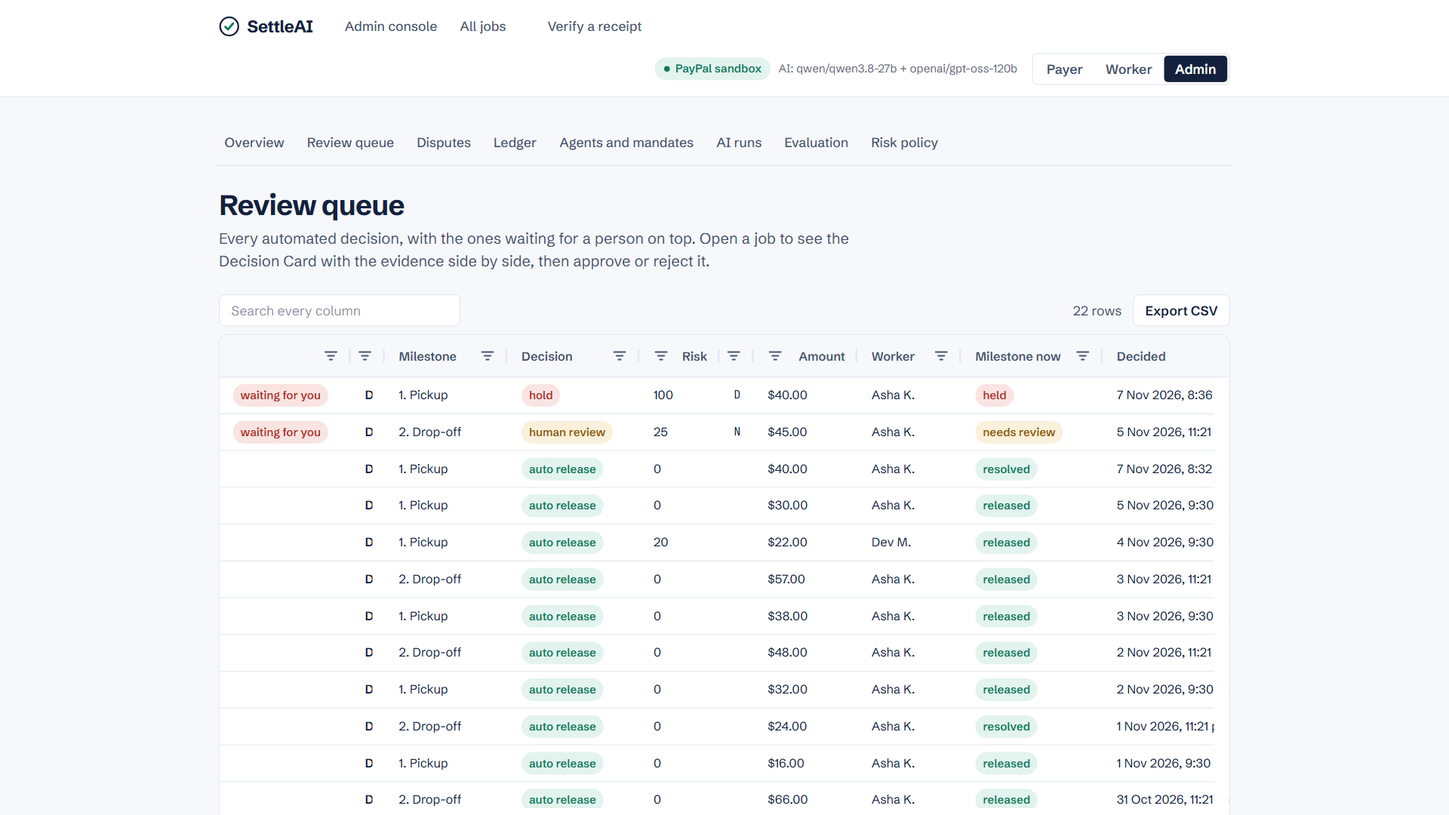
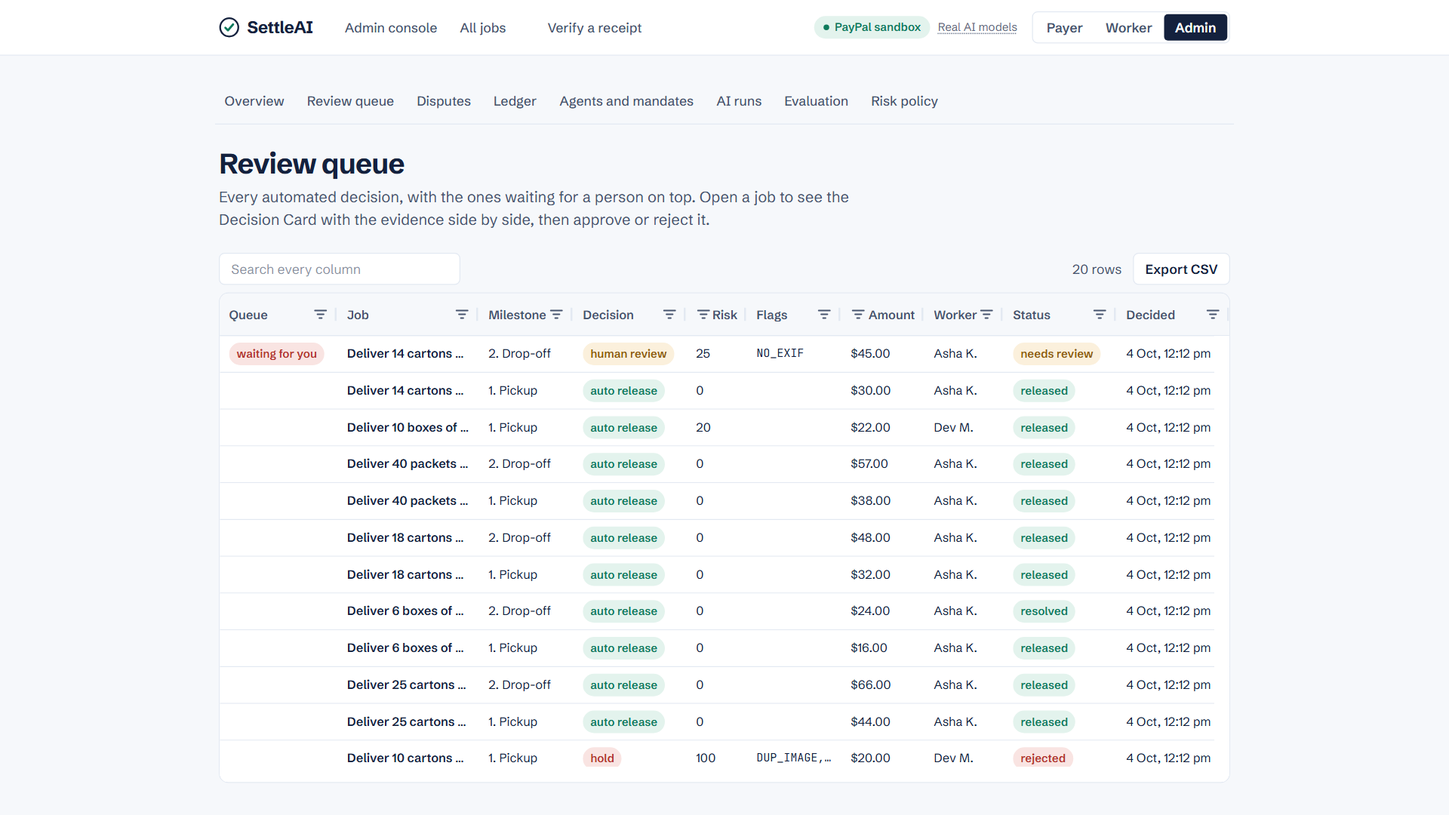
Judge-review fixes: AG Grid column widths, 10-minute demo challenge window, plain-English liability card, PayPal hold wording, model tooltip; Devpost image fix, sourced impact, write-tools rationale; README hero and single evidence table; screenshots 2 and 5 retaken

diff --git a/src/components/dispute-panel.tsx b/src/components/dispute-panel.tsx
@@ -1,7 +1,7 @@
 "use client";
 
 import { useRouter } from "next/navigation";
-import { useState } from "react";
+import { Fragment, useState } from "react";
 import type { DisputeProposal, FaultClass } from "@/core/contracts";
 import { formatMinor, parseMajor } from "@/core/money";
 import { api } from "@/lib/api";
@@ -31,6 +31,30 @@ const STATUS: Record<string, { label: string; tone: Tone }> = {
   ADMIN_RESOLVED: { label: "Decided by admin", tone: "good" },
   EXECUTED: { label: "Settled", tone: "good" },
 };
+
+/** Who carries the loss, in plain words. */
+const BEARER: Record<string, string> = {
+  worker: "borne by the worker",
+  payer: "borne by the payer",
+  shared: "shared by both sides",
+  platform: "borne by the platform",
+  agent_principal: "borne by the agent's principal",
+};
+
+const CONDITION_WORDS: Record<string, string> = {
+  "verification.pass": "the proof checks pass",
+  "risk.not_hold": "risk policy does not hold it",
+  "mandate.active": "the mandate is still active",
+};
+
+/** Plain-English version of a signed settlement clause; the raw clause stays under Details. */
+function plainClause(text: string): string {
+  const m = /^Payment Mandate, milestone (\d+): (\S+) settles only when (.+) hold, under acceptance criteria/.exec(text);
+  if (!m) return text;
+  const conds = m[3].split(", ").map((c) => CONDITION_WORDS[c] ?? c);
+  const list = conds.length > 1 ? `${conds.slice(0, -1).join(", ")} and ${conds[conds.length - 1]}` : conds[0];
+  return `Milestone ${m[1]} pays ${m[2]} only if ${list}, judged against the signed acceptance criteria.`;
+}
 
 const FAULT: Record<FaultClass, string> = {
   WORKER_NONPERFORMANCE: "Worker did not perform",
@@ -204,18 +228,33 @@ export function DisputePanel({ d, viewer }: { d: DisputeProps; viewer: "payer" |
           <section aria-label="Liability finding" className="mt-4 rounded-md border-l-4 border-signal bg-paper px-4 py-3">
             <p className="text-xs font-semibold uppercase tracking-wide text-ink-soft">Liability finding</p>
             <p className="mt-1 text-lg font-semibold">
-              {FAULT[d.proposal.liability.faultClass]} <span className="text-base font-normal text-ink-soft">(borne by {d.proposal.liability.bearer.replace("_", " ")})</span>
+              {FAULT[d.proposal.liability.faultClass]} <span className="text-base font-normal text-ink-soft">({BEARER[d.proposal.liability.bearer] ?? d.proposal.liability.bearer})</span>
             </p>
             {d.proposal.liability.basis
               .filter((b) => b.startsWith("mandate:"))
               .map((b) => (
                 <p key={b} className="mt-2 text-sm leading-relaxed">
                   <span className="font-semibold">Cites the mandate: </span>
-                  {d.reportClauses.find((c) => c.ref === b)?.text}
+                  {plainClause(d.reportClauses.find((c) => c.ref === b)?.text ?? "")}
                 </p>
               ))}
           </section>
-          <dl className="mt-3 grid grid-cols-[auto_1fr] gap-x-3 gap-y-1 text-sm">
+          <p className="mt-3 text-sm">
+            <span className="text-ink-soft">Confidence </span>
+            <span className="num">{Math.round(d.proposal.confidence * 100)}%</span>
+            {d.reportSummary ? <span className="text-ink-soft"> · {d.reportSummary}</span> : null}
+          </p>
+          <details className="mt-2 text-sm">
+            <summary className="cursor-pointer text-ink-soft hover:text-ink">Details</summary>
+          <dl className="mt-2 grid grid-cols-[auto_1fr] gap-x-3 gap-y-1 text-sm">
+            {d.proposal.liability.basis
+              .filter((b) => b.startsWith("mandate:"))
+              .map((b) => (
+                <Fragment key={`t-${b}`}>
+                  <dt className="text-ink-soft">Signed clause</dt>
+                  <dd className="text-xs">{d.reportClauses.find((c) => c.ref === b)?.text}</dd>
+                </Fragment>
+              ))}
             <dt className="text-ink-soft">Based on</dt>
             <dd>
               {d.proposal.liability.basis.filter((b) => !b.startsWith("mandate:")).map((b) => (
@@ -236,15 +275,8 @@ export function DisputePanel({ d, viewer }: { d: DisputeProps; viewer: "payer" |
                 </dd>
               </>
             ) : null}
-            {d.reportSummary ? (
-              <>
-                <dt className="text-ink-soft">Mandate check</dt>
-                <dd>{d.reportSummary}</dd>
-              </>
-            ) : null}
-            <dt className="text-ink-soft">Confidence</dt>
-            <dd className="num">{Math.round(d.proposal.confidence * 100)}%</dd>
           </dl>
+          </details>
           {d.proposal.findings.contestedFacts.length ? <p className="mt-2 text-xs text-ink-soft">Contested: {d.proposal.findings.contestedFacts.join("; ")}</p> : null}
           {d.proposal.reasonsIfHuman.length ? <p className="mt-2 text-xs text-deny">Needs a person: {d.proposal.reasonsIfHuman.join("; ")}</p> : null}
           <p className="mt-2 text-xs text-ink-faint">

diff --git a/src/components/data-grid.tsx b/src/components/data-grid.tsx
@@ -16,6 +16,8 @@ export interface ColumnSpec {
   kind?: ColumnKind;
   width?: number;
   flex?: number;
+  /** Floor for flex columns so they never collapse when fixed columns take the space. */
+  minWidth?: number;
   /** status: value -> tone; link: the row field holding the href (default "link") */
   tones?: Record<string, "good" | "warn" | "bad" | "info" | "neutral">;
   hrefField?: string;
@@ -43,6 +45,7 @@ const theme = themeQuartz.withParams({
   rowHoverColor: "#f6f8fb",
   wrapperBorderRadius: 10,
   spacing: 7,
+  cellHorizontalPadding: 10,
 });
 
 const MODULES = [AllCommunityModule];
@@ -52,8 +55,16 @@ function fmtDate(v: unknown): string {
   return new Date(String(v)).toLocaleString("en-IN", { dateStyle: "medium", timeStyle: "short", timeZone: "Asia/Kolkata" });
 }
 
+/** Compact cell text ("7 Nov, 8:36 pm"); the full date with the year is in the tooltip. */
+function fmtDateShort(v: unknown): string {
+  if (!v) return "";
+  return new Date(String(v)).toLocaleString("en-IN", { day: "numeric", month: "short", hour: "numeric", minute: "2-digit", timeZone: "Asia/Kolkata" });
+}
+
 function toColDef(c: ColumnSpec): ColDef {
-  const base: ColDef = { field: c.field, headerName: c.header, width: c.width, flex: c.flex ?? (c.width ? undefined : 1), hide: c.hide, sortable: true, filter: true, resizable: true };
+  const flex = c.flex ?? (c.width ? undefined : 1);
+  const minWidth = c.minWidth ?? (flex ? 120 : undefined);
+  const base: ColDef = { field: c.field, headerName: c.header, headerTooltip: c.header, width: c.width, flex, minWidth, hide: c.hide, sortable: true, filter: true, resizable: true };
   switch (c.kind) {
     case "money":
       return { ...base, type: "rightAligned", filter: "agNumberColumnFilter", valueFormatter: (p) => (p.value === null || p.value === undefined ? "" : formatMinor(Number(p.value))), cellClass: "num" };
@@ -62,7 +73,7 @@ function toColDef(c: ColumnSpec): ColDef {
     case "percent":
       return { ...base, type: "rightAligned", filter: "agNumberColumnFilter", valueFormatter: (p) => (p.value === null || p.value === undefined ? "" : `${p.value}%`), cellClass: "num" };
     case "datetime":
-      return { ...base, filter: "agDateColumnFilter", valueFormatter: (p) => fmtDate(p.value), sort: undefined };
+      return { ...base, filter: "agDateColumnFilter", valueFormatter: (p) => fmtDateShort(p.value), tooltipValueGetter: (p) => fmtDate(p.value), sort: undefined };
     case "code":
       return { ...base, cellClass: "font-mono text-xs" };
     case "status":

diff --git a/src/app/admin/risk/page.tsx b/src/app/admin/risk/page.tsx
@@ -6,16 +6,16 @@ export const metadata: Metadata = { title: "Review queue" };
 export const dynamic = "force-dynamic";
 
 const COLUMNS: ColumnSpec[] = [
-  { field: "waiting", header: "", kind: "status", width: 140, tones: { "Waiting for you": "bad" } },
-  { field: "job", header: "Job", kind: "link", flex: 2 },
-  { field: "milestone", header: "Milestone", width: 130 },
-  { field: "decision", header: "Decision", kind: "status", width: 140, tones: { AUTO_RELEASE: "good", HUMAN_REVIEW: "warn", HOLD: "bad" } },
-  { field: "score", header: "Risk", kind: "number", width: 85 },
-  { field: "flags", header: "Flags", kind: "code", flex: 1 },
-  { field: "amountMinor", header: "Amount", kind: "money", width: 110 },
-  { field: "worker", header: "Worker", width: 110 },
-  { field: "status", header: "Milestone now", kind: "status", width: 150, tones: { RELEASED: "good", RESOLVED: "good", NEEDS_REVIEW: "warn", HELD: "bad", REJECTED: "bad" } },
-  { field: "at", header: "Decided", kind: "datetime", width: 170 },
+  { field: "waiting", header: "Queue", kind: "status", width: 125, tones: { "Waiting for you": "bad" } },
+  { field: "job", header: "Job", kind: "link", flex: 2, minWidth: 150 },
+  { field: "milestone", header: "Milestone", width: 100 },
+  { field: "decision", header: "Decision", kind: "status", width: 120, tones: { AUTO_RELEASE: "good", HUMAN_REVIEW: "warn", HOLD: "bad" } },
+  { field: "score", header: "Risk", kind: "number", width: 64 },
+  { field: "flags", header: "Flags", kind: "code", flex: 1, minWidth: 100 },
+  { field: "amountMinor", header: "Amount", kind: "money", width: 88 },
+  { field: "worker", header: "Worker", width: 84 },
+  { field: "status", header: "Status", kind: "status", width: 120, tones: { RELEASED: "good", RESOLVED: "good", NEEDS_REVIEW: "warn", HELD: "bad", REJECTED: "bad" } },
+  { field: "at", header: "Decided", kind: "datetime", width: 120 },
   { field: "policyVersion", header: "Policy", kind: "number", width: 85, hide: true },
 ];
 

diff --git a/src/app/page.tsx b/src/app/page.tsx
@@ -10,7 +10,7 @@ const SAMPLE_MANDATE =
 
 const STEPS = [
   { title: "You sign what the agent may buy", body: "Categories, caps, area and expiry, in one plain sentence signed by your key." },
-  { title: "PayPal holds the money", body: "The job is funded through PayPal Checkout and held in escrow before anyone starts." },
+  { title: "PayPal holds the money", body: "The job is funded through PayPal Checkout and held by PayPal for this job before anyone starts." },
   { title: "Proof is checked, not trusted", body: "Location, time and duplicate-photo checks run first; then an AI verifies each criterion." },
   { title: "PayPal pays, or nobody does", body: "Policy releases the payout, holds it for review, or blocks it. Every step is signed." },
 ];
@@ -18,7 +18,7 @@ const STEPS = [
 const MOMENTS = [
   { title: "An agent is stopped before money moves", how: "Payer, Agent mandates, Out of scope, Send as agent: denied with reason codes, nothing created." },
   { title: "A reused photo is caught", how: "Worker, on a funded job, Submit proof, Photo reused from another job: held for a person." },
-  { title: "A dispute names who is liable", how: "Payer, Dispute this milestone in the challenge window: a split and a finding that cites the mandate." },
+  { title: "A dispute names who is liable", how: "Worker, on a funded job, Submit proof, Photo at the right place. Then Payer, open that job, Dispute this milestone within 10 minutes: a split and a finding that cites the mandate." },
   { title: "A receipt anyone can check", how: "Open the showcase receipt or any job's receipt, Verify; change one byte and it fails." },
 ];
 

diff --git a/src/components/mode-badge.tsx b/src/components/mode-badge.tsx
@@ -26,12 +26,18 @@ export function ModeBadge() {
         <span className={`h-1.5 w-1.5 rounded-full ${live ? "bg-seal" : "bg-hold"}`} />
         {live ? `PayPal ${cfg.PAYPAL_ENV}` : "Mock PayPal"}
       </span>
-      <span
-        title="Model used by the AI agents"
-        className={cfg.llmProvider === "stub" ? "rounded-full bg-hold-wash px-2.5 py-1 font-semibold text-hold" : "hidden text-ink-faint sm:inline"}
-      >
-        {cfg.llmProvider === "stub" ? "Offline AI stub" : `AI: ${cfg.llmModel}${cfg.llmProvider === "groq" ? ` + ${cfg.LLM_TEXT_MODEL ?? GROQ_DEFAULT_TEXT_MODEL}` : ""}`}
-      </span>
+      {cfg.llmProvider === "stub" ? (
+        <span title="AI answers are canned fixtures" className="rounded-full bg-hold-wash px-2.5 py-1 font-semibold text-hold">
+          Offline AI stub
+        </span>
+      ) : (
+        <span
+          title={`Models used by the AI agents: ${cfg.llmModel}${cfg.llmProvider === "groq" ? ` + ${cfg.LLM_TEXT_MODEL ?? GROQ_DEFAULT_TEXT_MODEL}` : ""}`}
+          className="hidden cursor-help text-ink-faint underline decoration-dotted underline-offset-2 sm:inline"
+        >
+          Real AI models
+        </span>
+      )}
     </span>
   );
 }

diff --git a/src/components/milestone-actions.tsx b/src/components/milestone-actions.tsx
@@ -90,7 +90,7 @@ export function PausedChoice({ milestoneId }: { milestoneId: string }) {
   const { busy, error, run } = useAction();
   return (
     <div className="mt-3 rounded-md bg-deny-wash p-3 text-sm">
-      <p>The agent&apos;s mandate was revoked, so this payout stopped. The money is still in escrow. You decide:</p>
+      <p>The agent&apos;s mandate was revoked, so this payout stopped. The money is still held by PayPal for this job. You decide:</p>
       <div className="mt-2 flex flex-wrap gap-2">
         <Button disabled={busy} onClick={() => run(() => api(`/api/milestones/${milestoneId}/resume`, { method: "POST" }))}>
           I approve the work, pay it

diff --git a/src/core/services/disputes.ts b/src/core/services/disputes.ts
@@ -209,7 +209,7 @@ export class DisputeService {
         ? "Direct job created and funded by the payer in person; no agent mandate applies."
         : violations.length
           ? `Out-of-mandate actions found: ${violations.join(", ")}.`
-          : `Every agent action on this job passed the Mandate Guard (${checks.length} checks).`,
+          : `Every agent action on this job passed the Mandate Guard (${checks.length} ${checks.length === 1 ? "check" : "checks"}).`,
       clauses,
     };
     await this.db.insert(complianceReports).values({ id, disputeId, jobId, resultJson: report });

diff --git a/src/components/job-actions.tsx b/src/components/job-actions.tsx
@@ -110,7 +110,7 @@ export function FundPanel({
         <dt className="font-semibold">You pay now</dt>
         <dd className="num text-right font-semibold">{formatMinor(totalMinor + feeMinor)}</dd>
       </dl>
-      <p className="mt-3 text-sm text-ink-soft">PayPal holds this in escrow. The worker is paid per milestone only after proof is verified.</p>
+      <p className="mt-3 text-sm text-ink-soft">PayPal holds this for the job. The worker is paid per milestone only after proof is verified.</p>
 
       {!order ? (
         <Button onClick={start} disabled={busy} className="mt-4 w-full">

diff --git a/tests/e2e/j1-fund-and-accept.spec.ts b/tests/e2e/j1-fund-and-accept.spec.ts
@@ -41,7 +41,7 @@ test("payer scopes and funds a job; worker accepts it", async ({ page }) => {
   await page.getByRole("button", { name: "Pay $102.00" }).click();
 
   await expect(page.getByText("Funded, open to workers")).toBeVisible();
-  await expect(page.getByText("Held in escrow")).toBeVisible();
+  await expect(page.getByText("Held by PayPal for this job")).toBeVisible();
   await expect(page.getByText(/^PayPal capture .*confirmed by PayPal webhook/)).toBeVisible();
   await shot(page, "04-funded");
   const jobUrl = page.url();

diff --git a/src/components/money-strip.tsx b/src/components/money-strip.tsx
@@ -20,7 +20,7 @@ export function MoneyStrip({
     { key: "Paid to worker", minor: releasedMinor, color: "var(--seal)" },
     { key: "Refunded to payer", minor: refundedMinor, color: "var(--hold)" },
     { key: "Platform fee", minor: fees, color: "var(--ink-faint)" },
-    { key: "Held in escrow", minor: inEscrowMinor, color: "var(--signal)" },
+    { key: "Held by PayPal for this job", minor: inEscrowMinor, color: "var(--signal)" },
   ];
   return (
     <div>

diff --git a/src/app/admin/page.tsx b/src/app/admin/page.tsx
@@ -55,7 +55,7 @@ export default async function AdminOverview() {
       </section>
 
       <Panel className="mt-6 p-5">
-        <h2 className="font-semibold">Money placed in escrow per day</h2>
+        <h2 className="font-semibold">Money held by PayPal per day</h2>
         <div className="mt-3">
           <FundingChart data={daily} />
         </div>

diff --git a/docs/JUDGE_REVIEW.md b/docs/JUDGE_REVIEW.md
@@ -1,0 +1,102 @@
+# SettleAI: mock judge review
+
+Reviewer role: a strict PayPal AI Hackathon 2026 judge spending 5–10 minutes skimming.
+Date: 7 Nov 2026. Planned submission: 11 Nov. Cutoff: 13 Nov, 1:30 AM IST (12 Nov, 12:00 PT).
+
+**What I looked at:** README.md, docs/DEVPOST.md, docs/video/SCRIPT.md, captions.srt and YOUTUBE.md, the five Devpost images, a few source lines (the review-queue columns, the challenge-window config), and one curl pass over the live site. I didn't run any tests or watch the video frames. I made three web searches for rival entries and found none public yet.
+
+---
+
+## Overall: 7.6 / 10
+
+The engineering is in the top tier for a hackathon. The idea is sharp and on-theme: agents spend money, so who is accountable? The project is very honest about its limits.
+
+What costs it points is how it's packaged. The video is a 2-minute sprint through eleven beats. One Devpost section contradicts the AI-image disclosure. The AG Grid screenshot shows a broken grid. The live demo has a 75 s cold start and an 8–15 s challenge window that a judge can't realistically hit. All of these can be fixed by 10 Nov.
+
+## 30-second test
+
+| Surface | Problem clear? | "Wow" clear? | Notes |
+|---|---|---|---|
+| Video opening (0:00–0:23) | Yes. "When an agent overspends, or the work never happens, who is accountable?" | Partly | The wow shows up at 0:32 (the denial). Before that come two text cards of narration. Show the red "Denied before any money moved" card within the first 10 s. |
+| README top | Yes. The bold one-liner is strong. | No | The quoted paragraph below it is dense ("AP2-style mandates… deterministic Mandate Guard… signed receipt"). A judge sees no picture or GIF before "Live demo". |
+| Landing page | Yes. The headline and the signed-mandate card are excellent. | Partly | The first visit takes **75 s** (measured: `/` returned 200 in 75.4 s). Many judges will close the tab first. The header shows raw model IDs (`qwen/qwen3.8-27b + openai/gpt-oss-120b`), which is jargon above the fold. |
+
+Verdict: it passes the problem test but only half-passes the wow test. The best moment (an agent denied, with reason codes) should come first everywhere.
+
+## Criteria scores
+
+| Criterion | Score | One-line reason |
+|---|---|---|
+| Technological Implementation | **9** | Real Orders v2, Payouts, refunds and webhooks with dedupe, a double-entry ledger, a deterministic guard at four gates, JWS receipts with an offline verifier, MCP, and 450+ tests. Hard to beat. |
+| Design | **7** | The landing and the Decision Card are clean. The AG Grid review queue renders broken (see red flags), and the liability card shows raw tokens (`verification.pass, risk.not_hold`) and "borne by shared". |
+| Potential Impact | **6.5** | The problem is real, but the pitch never puts a number on it (gig payments, chargebacks, agent spend) and names no buyer. "Ravi Traders in Indore" is good texture with no market size behind it. |
+| Innovation | **8** | Conditional settlement, liability findings that cite a signed mandate clause, and verifiable receipts form a fresh layer on top of AP2-style mandates. Clearly beyond "chatbot plus checkout". |
+| Presentation | **6.5** | The voiceover is clear and honest, but the video is rushed (around 11 s per beat, about 2:05 of the 3:00 allowed) and ends on a disclaimer. The Devpost page reads well but contains a contradiction and a fragile judge path. |
+
+Weighted roughly equally, that comes to about **7.4–7.8**.
+
+## Prize fit
+
+| Prize | Fit | Why |
+|---|---|---|
+| Best Use of Agentic Commerce | **8.5** | The strongest fit. It's literally about agents spending under mandates, and MCP plus ProcureBot prove it. |
+| Best Use of PayPal + AI | **7.5** | Deep PayPal use with AI on the critical path. It doesn't use the **PayPal Agent Toolkit**, which judges from PayPal may look for, and "What's next" admits that. One sentence on why it isn't used (agents must never hold write tools) turns the gap into a design choice. |
+| Most Impactful | **6** | Needs a quantified problem and a named user segment. |
+| Most Creative | **6.5** | Creative in its architecture, not in its demo. The emotional hook is thin. |
+| Best Demo Delivery | **5.5** | The video pacing, the cold start and the short challenge window all work against this prize. |
+| AG Grid (sponsor) | **5** | The submitted grid screenshot shows collapsed **Job** and **Flags** columns showing a single letter ("D", "N") with blank headers, and a clipped "Decided" column. To a sponsor judge that looks like misuse of their product. It's fixable in an hour, and fixing it raises the fit to 7–7.5. |
+
+## Competition
+
+No rival entries were public yet (three searches; the official gallery is at paypalaihackathon.devpost.com). Based on typical entries for this theme:
+
+**Where we're stronger**
+- Most entries will be "an LLM calls PayPal create-order through the Agent Toolkit". SettleAI argues the opposite (an LLM must never hold the money tool) and shows code enforcing it. That's a memorable thesis.
+- Real sandbox evidence (order, capture, payout batch and refund IDs), webhook-confirmed funding, and a ledger that conserves money.
+- Verifiable receipts with tamper detection, which nobody else is likely to have.
+- Honesty: AP2-inspired wording, a ledgered hold rather than "escrow", disclosed AI images, unbuilt features listed.
+
+**Where a simpler entry could beat us**
+- **A one-flow demo with a human story.** For example: "my agent booked and paid a plumber in 60 seconds", shown in one continuous take, with a real voice and no jargon. Judges skimming 10 projects reward clarity over depth.
+- **Uses the Agent Toolkit or PayPal's own agentic products by name.** PayPal judges may score "uses our new thing" higher.
+- **A demo that loads instantly.** A judge who waits 75 s, or who can't open a dispute because the 8 s window closed, scores the demo lower whatever the depth.
+- **A consumer-facing UI** feels more "impactful" than an ops console full of hashes and reason codes.
+
+## Red flags
+
+1. **Contradiction about the images (high).** DEVPOST.md, "Challenges": "*A real model refused our fake photos… so the demo uses real photos.*" The same page, the README and the video then say the demo images are **AI-generated**. A judge who notices will doubt every other claim. Rewrite that bullet to match what is actually true now.
+2. **Broken AG Grid screenshot (high, for the sponsor prize).** The `Job` (flex 2) and `Flags` (flex 1) columns in `src/app/admin/risk/page.tsx` collapse to about 1 character with no header text. `Decided` is cut off at the right edge.
+3. **A judge can't hit the challenge window (high, demo).** The Decision Card says "an 8-second window to dispute" (`render.yaml` sets `CHALLENGE_WINDOW_SECONDS=15`). "Four things to try" #3 asks the judge to dispute during that window. Most judges will miss it and conclude the feature doesn't work. It also reads as a toy setting.
+4. **75 s cold start (high).** It's disclosed, but it's still the first impression. Judging runs 1–15 Dec, so the instance needs to be kept warm throughout.
+5. **"Escrow" wording slips.** The landing page says "held in escrow" and the job page shows "Held in escrow". The Devpost and README carefully say "ledgered hold" and "no native escrow". Make them consistent: "Held by PayPal for this job" or "Held (ledgered)".
+6. **Jargon on screen.** Raw model IDs in the header, `verification.pass, risk.not_hold, mandate.active hold`, `pmd_01M6V8…#settlementConditions[milestoneSeq=1]`, "borne by shared", "(1 checks)". These are fine in a details drawer but not on the hero card of the liability screenshot.
+7. **Weak statistics presented as strengths.** "Prompt injection caught 100%, CI [15.8%, 100%], n = 2" and "bad proofs paid 0%, CI up to 36.9%, n = 8". A statistically literate judge reads these as "barely tested". The README also prints the evidence twice (two near-identical tables).
+8. **Video pacing and ending.** The video covers eleven beats in about 2:05, roughly 11 s of screen per idea, with sped-up waits. It ends on a legal disclaimer instead of the product. The YouTube chapters list "Moment 3" before "Moment 2", which reads as a mistake.
+9. **TTS voice.** Piper LJ Speech is flat and audibly synthetic. It's acceptable and disclosed, but it costs points for Best Demo Delivery. A human voice, even a non-native one, scores better for warmth.
+10. **AP2 wording.** This is handled well everywhere ("AP2-inspired, not official, not endorsed"). Don't change it. Just don't spend the video's final 10 s on it; one on-screen line is enough.
+11. **Screenshot 2 is badly cropped.** It cuts off the denial reason mid-sentence and shows an "Expired" mandate that distracts. Crop it to the request and the red denial card.
+
+## Top 3 risks
+
+1. **The judge's first two minutes fail:** a 75 s cold start, then a dispute window that closes before they click. The result is a low demo score and doubt about the depth claims.
+2. **Credibility damage from the "real photos vs AI-generated" contradiction** on the Devpost page.
+3. **The AG Grid sponsor prize (the one sponsor prize we target) is lost** because the hero grid screenshot looks broken.
+
+## Top 10 improvements (ranked by score gain ÷ effort; all safe to finish by the night of 10 Nov)
+
+| # | Change | Hours | Criterion | Type |
+|---|---|---|---|---|
+| 1 | Fix the Devpost "Challenges" bullet about images so it matches the AI-generated disclosure (for example: the vision model flagged early generated images as graphics, so we regenerated more realistic ones, labelled them as AI-generated demo samples, and kept rule checks as ground truth). | 0.25 | Presentation, credibility | Devpost text |
+| 2 | Fix the review-queue column widths (give `job` and `flags` a `minWidth`, or fixed widths, and let `Decided` fit), then retake screenshot 5. Add one Devpost line saying which AG Grid features are used (filters, quick search, CSV export, status renderers). | 1 | Design, AG Grid prize | UI + Devpost image |
+| 3 | Keep the live demo warm from submission through 15 Dec (an external uptime ping every 10 min, or a paid Render instance for the judging period). Change the "~75s" note to state that the demo is kept warm. | 0.5 | Demo delivery | Ops |
+| 4 | Make the dispute path reachable: seed a job that is always in its challenge window (or give jobs a "Dispute" button for a longer window, e.g. 10 min, in demo mode), and update "Four things to try" #3 to point at it directly. | 1.5 | Demo delivery, Presentation | Code (config + seed) |
+| 5 | Re-edit the video: open on the red denial card (0–8 s) with the "who is accountable?" line over it. Slow down to fewer beats (cut or merge the flow card and the results card), and use the full ~2:50. Hold each key card for 4–6 s, with a zoom or highlight on the reason codes, the liability finding and the "verification failed" link. End on the product and the URL, with the disclaimer as one small on-screen line rather than a spoken ending. | 3 | Presentation, Demo delivery | Video |
+| 6 | Re-record the voiceover with a human voice (or at least a more natural TTS voice), using the same script. | 1.5 | Presentation, Demo delivery | Video |
+| 7 | Add a quantified "why now" to the Devpost Inspiration and README top: 2–3 sourced figures (gig and freelance payment disputes, small business late or unpaid invoices, agentic commerce forecasts) and a named first user ("small businesses that outsource deliveries and repairs"). The impact-pack template already exists, so fill it in. | 1 | Potential Impact | Devpost text, README |
+| 8 | Clean up the jargon on the liability card and the header: plain-English clause text first ("Milestone 1 pays only if the photo checks pass, risk isn't on hold, and the mandate is still active"), raw IDs behind a "Details" toggle. Fix "borne by shared" (say "shared by both sides") and "(1 checks)". Change "Held in escrow" to "Held by PayPal". Move model IDs from the header into a tooltip. Retake screenshot 4. | 1.5 | Design, Presentation | UI |
+| 9 | Tighten the README top: a 10-second GIF or screenshot right under the one-liner, one evidence table (delete the duplicate), and move the small-n injection row (n = 2) into a footnote or raise n with more injection fixtures. | 1 | Presentation | README |
+| 10 | Add one Devpost paragraph, "Why not give the agent the PayPal Agent Toolkit?", framing the deliberate choice (agents get read and create tools through MCP; only the Treasury, after the Guard, calls PayPal writes), and naming the Toolkit for Invoicing as next. Recrop screenshot 2 to the denial card, and renumber the YouTube chapters in on-screen order. | 0.75 | Best Use of PayPal + AI, Presentation | Devpost text, image |
+
+Total: about 12 hours. Items 1–3 (about 1.75 h) carry the largest risk reduction and should be done first. If time runs short, skip item 6 before skipping item 5.
+
+Don't add features. Everything above is about clarity, reachability and credibility.
